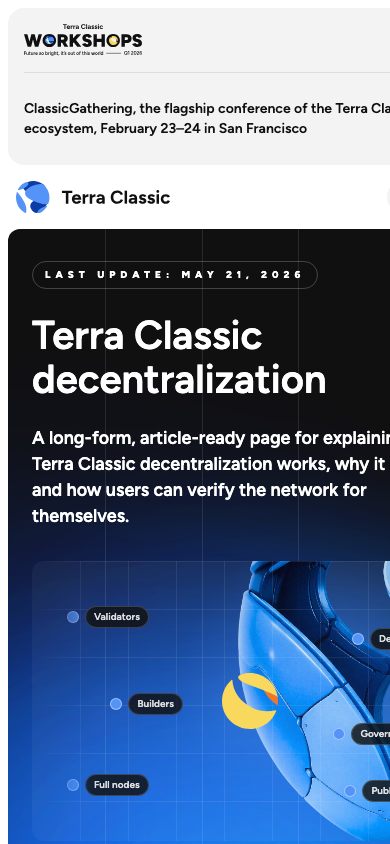
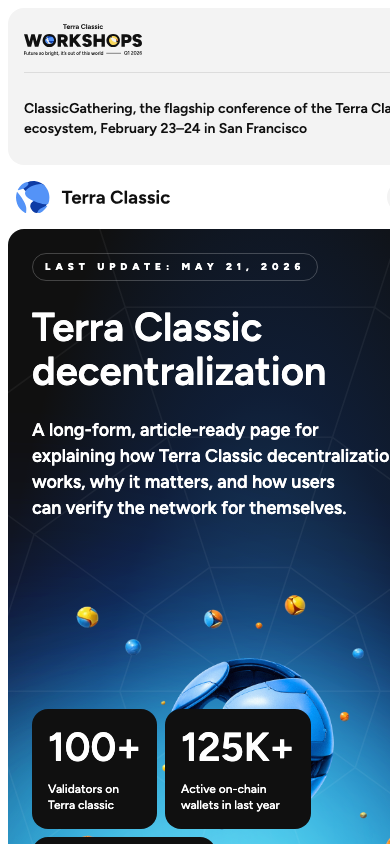
Decentralizuation subpage fixes

diff --git a/src/styles/global.css b/src/styles/global.css
@@ -541,7 +541,7 @@ h1 { margin: 0; font-size: var(--tc-type-h1-size); line-height: var(--tc-type-h1
 
 .protocols { display: grid; gap: 8px; margin-top: 8px; }
 .protocol-panel { width: 100%; height: 95vh; position: relative; overflow: hidden; border-radius: var(--radius-card); color: var(--color-white); padding: var(--tc-padding-immersive-panel); background-color: var(--color-black); display: grid; grid-template-rows: auto minmax(0, 1fr) auto; row-gap: 40px; }
-.protocol-panel--staking { --protocol-visual-width: 892px; --protocol-visual-height: 512px; --protocol-visual-ratio: 892 / 512; --protocol-visual-center-offset: -5.83%; background: var(--color-black); }
+.protocol-panel--staking { --protocol-visual-width: 892px; --protocol-visual-height: 512px; --protocol-visual-ratio: 892 / 512; --protocol-visual-center-offset: -5.83%; background: linear-gradient(to bottom, rgba(16,16,16,0) calc(100% - 3px), rgba(255,224,93,.34) 100%), radial-gradient(ellipse at 50% 100%, rgba(255,224,93,.72) 0%, rgba(247,190,58,.4) 30%, rgba(143,116,72,.18) 58%, rgba(16,16,16,0) 84%), var(--color-black); box-shadow: 0 1px 0 rgba(255,224,93,.28); }
 .protocol-panel--swap { --protocol-visual-width: 987px; --protocol-visual-height: 512px; --protocol-visual-ratio: 987 / 512; --protocol-visual-center-offset: -5.315%; background: var(--color-black); }
 .protocol-panel--forex { --protocol-visual-width: 908px; --protocol-visual-height: 512px; --protocol-visual-ratio: 908 / 512; --protocol-visual-center-offset: -4.735%; background: var(--color-black); }
 .protocol-glow { position: absolute; pointer-events: none; z-index: 0; mix-blend-mode: screen; transform: translateZ(0); }
@@ -561,7 +561,7 @@ h1 { margin: 0; font-size: var(--tc-type-h1-size); line-height: var(--tc-type-h1
 .protocol-glow--v2 span:nth-child(1) { left: -110px; right: -110px; top: 102px; bottom: -34px; background: radial-gradient(ellipse at 50% 63%, rgba(16,70,184,.82) 0%, rgba(12,54,158,.7) 28%, rgba(9,35,120,.52) 55%, rgba(8,24,82,.24) 76%, rgba(5,9,32,0) 92%); filter: blur(86px); opacity: .88; animation: bottom-glow-v2-field 26s ease-in-out infinite alternate; }
 .protocol-glow--staking.protocol-glow--v2 span:nth-child(2) { left: 360px; right: 280px; bottom: 30px; height: 650px; background: radial-gradient(ellipse at 50% 72%, rgba(255,224,93,1) 0%, rgba(249,216,94,.9) 18%, rgba(247,190,58,.58) 42%, rgba(118,94,56,.24) 68%, rgba(118,94,56,0) 88%); filter: blur(52px); opacity: .94; animation: bottom-glow-v2-core 17s var(--tc-ease-emphasized) infinite alternate; }
 .protocol-glow--staking.protocol-glow--v2 span:nth-child(3) { left: 492px; right: 370px; bottom: -42px; height: 480px; background: radial-gradient(ellipse at 50% 42%, rgba(255,247,174,.9) 0%, rgba(255,224,93,.62) 32%, rgba(255,224,93,0) 78%); filter: blur(60px); opacity: .76; animation: bottom-glow-v2-source 23s ease-in-out infinite alternate; }
-.protocol-glow--staking.protocol-glow--v2 span:nth-child(4) { display: block; left: 120px; right: 80px; bottom: 34px; height: 270px; border-radius: 45% 55% 54% 46% / 44% 54% 46% 56%; background: linear-gradient(98deg, rgba(255,224,93,0) 0%, rgba(255,224,93,.2) 24%, rgba(255,224,93,.46) 48%, rgba(76,134,255,.2) 70%, rgba(10,24,84,0) 100%); filter: blur(66px); opacity: .34; transform: rotate(-5deg); animation: bottom-glow-v2-floor-wash 29s ease-in-out infinite alternate; }
+.protocol-glow--staking.protocol-glow--v2 span:nth-child(4) { display: block; left: 120px; right: 80px; bottom: -36px; height: 350px; border-radius: 45% 55% 54% 46% / 44% 54% 46% 56%; background: linear-gradient(98deg, rgba(255,224,93,0) 0%, rgba(255,224,93,.2) 24%, rgba(255,224,93,.46) 48%, rgba(76,134,255,.2) 70%, rgba(10,24,84,0) 100%); filter: blur(66px); opacity: .38; transform: rotate(-5deg); animation: bottom-glow-v2-floor-wash 29s ease-in-out infinite alternate; }
 .protocol-glow--swap.protocol-glow--v2 span:nth-child(2),
 .protocol-glow--forex.protocol-glow--v2 span:nth-child(2) { left: 326px; right: 244px; bottom: 20px; height: 700px; background: radial-gradient(ellipse at 50% 72%, rgba(94,252,255,1) 0%, rgba(80,230,255,.82) 20%, rgba(42,156,255,.54) 45%, rgba(13,84,205,.22) 69%, rgba(13,84,205,0) 89%); filter: blur(52px); opacity: .9; animation: bottom-glow-v2-core 17s var(--tc-ease-emphasized) infinite alternate; }
 .protocol-glow--forex.protocol-glow--v2 span:nth-child(2) { left: 316px; right: 254px; background: radial-gradient(ellipse at 50% 72%, rgba(80,236,255,.96) 0%, rgba(72,226,255,.78) 21%, rgba(58,168,255,.5) 45%, rgba(8,95,210,.22) 69%, rgba(8,95,210,0) 89%); }
@@ -792,7 +792,7 @@ h1 { margin: 0; font-size: var(--tc-type-h1-size); line-height: var(--tc-type-h1
   linear-gradient(180deg, #050a20 0%, #07133c 48%, #0d4fb9 100%); }
 .strength-visual__orb { position: relative; z-index: 1; display: block; width: 292px; height: auto; max-width: none; }
 
-.stats-panel { --stats-copy-block-height: 168px; --stats-planets-top: calc(var(--tc-padding-immersive-panel) + var(--stats-copy-block-height) + 40px); --stats-small-planets-height: 636px; --stats-big-planet-width: 270px; --stats-big-planet-height: 268px; --stats-web-center-y-offset: 11px; width: 100%; height: 95vh; margin-top: 8px; position: relative; overflow: hidden; border-radius: var(--radius-card); background: var(--color-black); color: var(--color-white); padding: var(--tc-padding-immersive-panel); display: grid; grid-template-rows: auto minmax(0, 1fr) auto; row-gap: 40px; }
+.stats-panel { --stats-copy-block-height: 168px; --stats-planets-top: calc(var(--tc-padding-immersive-panel) + var(--stats-copy-block-height) + 40px); --stats-small-planets-height: 636px; --stats-big-planet-width: 270px; --stats-big-planet-height: 268px; --stats-web-center-y-offset: 11px; width: 100%; height: 95vh; margin-top: 8px; position: relative; overflow: hidden; border-radius: var(--radius-card); background: linear-gradient(to bottom, rgba(16,16,16,0) calc(100% - 3px), rgba(84,245,255,.3) 100%), radial-gradient(ellipse at 54% 100%, rgba(84,245,255,.68) 0%, rgba(42,156,255,.42) 30%, rgba(13,84,205,.2) 58%, rgba(16,16,16,0) 84%), var(--color-black); box-shadow: 0 1px 0 rgba(84,245,255,.24); color: var(--color-white); padding: var(--tc-padding-immersive-panel); display: grid; grid-template-rows: auto minmax(0, 1fr) auto; row-gap: 40px; }
 .stats-glow { position: absolute; inset: -120px -220px -220px; z-index: 1; pointer-events: none; mix-blend-mode: screen; filter: saturate(1.16); transform: translateZ(0); mask-image: linear-gradient(to bottom, transparent 0%, transparent 18%, rgba(0,0,0,.26) 28%, #000 42%); -webkit-mask-image: linear-gradient(to bottom, transparent 0%, transparent 18%, rgba(0,0,0,.26) 28%, #000 42%); }
 .stats-glow span { position: absolute; display: block; border-radius: 999px; will-change: transform, opacity, border-radius, filter; }
 .stats-glow span:nth-child(1) { left: -70px; right: -70px; top: 100px; bottom: 20px; background: radial-gradient(ellipse at 54% 58%, rgba(14,60,165,.72) 0%, rgba(14,50,146,.62) 25%, rgba(11,36,118,.5) 52%, rgba(8,24,82,.24) 73%, rgba(5,9,32,0) 91%); filter: blur(82px); opacity: .86; animation: stats-blue-field 23s ease-in-out infinite alternate; }
@@ -803,7 +803,7 @@ h1 { margin: 0; font-size: var(--tc-type-h1-size); line-height: var(--tc-type-h1
 .stats-glow--v2 span:nth-child(1) { left: -110px; right: -110px; top: 96px; bottom: -38px; background: radial-gradient(ellipse at 52% 62%, rgba(15,72,190,.8) 0%, rgba(12,58,166,.68) 28%, rgba(10,39,128,.5) 56%, rgba(8,24,82,.22) 76%, rgba(5,9,32,0) 92%); filter: blur(90px); opacity: .82; animation: bottom-glow-v2-field 28s ease-in-out -7.4s infinite alternate; }
 .stats-glow--v2 span:nth-child(2) { left: 380px; right: 180px; bottom: -16px; height: 740px; background: radial-gradient(ellipse at 52% 72%, rgba(92,252,255,.98) 0%, rgba(84,245,255,.76) 22%, rgba(42,156,255,.5) 46%, rgba(13,84,205,.22) 70%, rgba(13,84,205,0) 90%); filter: blur(56px); opacity: .86; animation: bottom-glow-v2-core 19s var(--tc-ease-emphasized) -10.2s infinite alternate; }
 .stats-glow--v2 span:nth-child(3) { left: 500px; right: 300px; bottom: -72px; height: 520px; background: radial-gradient(ellipse at 52% 42%, rgba(178,253,255,.82) 0%, rgba(84,245,255,.54) 34%, rgba(84,245,255,0) 78%); filter: blur(64px); opacity: .62; animation: bottom-glow-v2-source 25s ease-in-out -4.8s infinite alternate; }
-.stats-glow--v2 span:nth-child(4) { display: block; left: 92px; right: 52px; bottom: 74px; height: 330px; border-radius: 45% 55% 54% 46% / 44% 54% 46% 56%; background: linear-gradient(98deg, rgba(84,245,255,0) 0%, rgba(84,245,255,.16) 24%, rgba(84,245,255,.42) 48%, rgba(66,132,255,.2) 70%, rgba(10,24,84,0) 100%); filter: blur(70px); opacity: .3; transform: rotate(-5deg); animation: bottom-glow-v2-floor-wash 31s ease-in-out -13.2s infinite alternate; }
+.stats-glow--v2 span:nth-child(4) { display: block; left: 92px; right: 52px; bottom: -42px; height: 410px; border-radius: 45% 55% 54% 46% / 44% 54% 46% 56%; background: linear-gradient(98deg, rgba(84,245,255,0) 0%, rgba(84,245,255,.16) 24%, rgba(84,245,255,.42) 48%, rgba(66,132,255,.2) 70%, rgba(10,24,84,0) 100%); filter: blur(70px); opacity: .34; transform: rotate(-5deg); animation: bottom-glow-v2-floor-wash 31s ease-in-out -13.2s infinite alternate; }
 .stats-decagon-pattern { position: absolute; inset: 0; z-index: 2; display: block; width: 100%; height: 100%; max-width: none; object-fit: cover; pointer-events: none; }
 .stats-small-planets { position: absolute; left: 50%; top: var(--stats-planets-top); z-index: 3; display: block; width: auto; height: var(--stats-small-planets-height); aspect-ratio: 1161 / 636; max-width: none; object-fit: contain; pointer-events: none; transform: translateX(-50.302%); }
 .stats-big-planet { position: absolute; left: 50%; top: calc(50% + var(--stats-web-center-y-offset)); z-index: 3; display: block; width: var(--stats-big-planet-width); height: var(--stats-big-planet-height); max-width: none; object-fit: contain; pointer-events: none; transform: translate(-50%, -50%); }
@@ -952,15 +952,12 @@ h1 { margin: 0; font-size: var(--tc-type-h1-size); line-height: var(--tc-type-h1
 .ecosystem-share .pill-button { min-width: 220px; }
 
 .decentralization-page { width: 100%; border-bottom: 1px solid var(--color-grey-100); }
-.decentralization-hero { position: relative; min-height: 720px; overflow: hidden; border-radius: var(--radius-card); background: var(--color-black); color: var(--color-white); padding: var(--tc-padding-immersive-panel); display: grid; grid-template-rows: auto minmax(280px, 1fr) auto; gap: 48px; }
-.decentralization-hero__glow { z-index: 0; }
-.decentralization-hero__lines { z-index: 1; display: block; }
-.decentralization-hero__lines span:nth-child(1) { left: 20%; display: block; }
-.decentralization-hero__lines span:nth-child(2) { left: 40%; display: block; }
-.decentralization-hero__lines span:nth-child(3) { left: 60%; display: block; }
-.decentralization-hero__lines span:nth-child(4) { left: 80%; display: block; }
-.decentralization-hero__copy { position: relative; z-index: 2; max-width: 980px; display: flex; flex-direction: column; gap: 40px; }
-.decentralization-hero__copy h1, .decentralization-hero__copy p { margin: 0; }
+.decentralization-hero { margin-top: 0; }
+.stats-panel.decentralization-stats-hero { --stats-copy-block-height: 288px; }
+.decentralization-stats-hero { min-height: 720px; }
+.decentralization-stats-hero__copy { display: flex; flex-direction: column; align-items: flex-start; }
+.decentralization-stats-hero__copy h1 { width: 100%; max-width: 100%; margin: 48px 0 0; text-wrap: balance; }
+.decentralization-stats-hero__copy p { max-width: 900px; margin-top: 32px; }
 .article-meta { display: flex; flex-wrap: wrap; gap: 8px; color: rgba(255,255,255,.68); }
 .article-meta__badge { width: auto; min-width: 0; height: 32px; background: transparent; border-color: rgba(255,255,255,.22); color: var(--color-white); padding: 0 16px; text-transform: uppercase; }
 .decentralization-visual { position: relative; z-index: 2; min-height: 320px; border-radius: var(--radius-card); background: radial-gradient(circle at 70% 45%, rgba(84,147,247,.3), rgba(84,147,247,0) 46%), rgba(255,255,255,.04); overflow: hidden; }
@@ -976,7 +973,7 @@ h1 { margin: 0; font-size: var(--tc-type-h1-size); line-height: var(--tc-type-h1
 .decentralization-node--4 { right: 22%; top: 58%; }
 .decentralization-node--5 { left: 14%; bottom: 18%; }
 .decentralization-node--6 { right: 12%; bottom: 16%; }
-.article-actions { position: relative; z-index: 2; display: grid; grid-template-columns: auto 1fr auto; align-items: center; gap: 16px; padding-top: 0; }
+.decentralization-hero-actions { position: absolute; left: 0; top: 176px; display: flex; align-items: center; gap: 16px; }
 .article-action.pill-button { min-height: 56px; border: 0; background: var(--color-white); color: var(--color-black); cursor: pointer; justify-self: start; }
 .article-action--share.pill-button { justify-self: end; }
 .article-action.pill-button:hover,
@@ -992,7 +989,7 @@ h1 { margin: 0; font-size: var(--tc-type-h1-size); line-height: var(--tc-type-h1
 .article-action:hover .play-button-icon__hover,
 .article-action:focus-visible .play-button-icon__hover,
 .article-action--active .play-button-icon__hover { opacity: 1; }
-.article-read-time { justify-self: start; color: rgba(255,255,255,.64); }
+.article-read-time { color: rgba(255,255,255,.64); }
 .article-body { max-width: 1040px; margin: 0 auto; padding: 80px 0 96px; }
 .article-lede { padding: 0 0 56px 160px; border-bottom: 1px solid var(--color-grey-100); }
 .article-lede p { margin: 0; }
@@ -1169,7 +1166,8 @@ h1 { margin: 0; font-size: var(--tc-type-h1-size); line-height: var(--tc-type-h1
   .stats-metric--2 { left: 233px; width: 270px; }
   .stats-metric--3 { left: 511px; width: 311px; }
   .stats-metric dt img { left: 212px; right: auto; }
-  .stats-button { position: relative; left: auto; top: auto; margin-top: 24px; }
+  .stats-button,
+  .decentralization-hero-actions { position: relative; left: auto; top: auto; margin-top: 24px; flex-wrap: wrap; }
   .founders { height: auto; }
   .founders-intro,
   .founders-intro h2,
@@ -1653,7 +1651,8 @@ h1 { margin: 0; font-size: var(--tc-type-h1-size); line-height: var(--tc-type-h1
   .stats-metric dt { width: 100%; height: 44px; display: flex; align-items: center; gap: 16px; }
   .stats-metric dt span { font-size: var(--tc-type-h1-size); line-height: var(--tc-type-h1-line-height); }
   .stats-metric dd { position: static; margin: 0; font-size: var(--tc-type-link-normal-size); line-height: var(--tc-type-link-normal-line-height); }
-  .stats-button { position: relative; left: auto; top: auto; width: 100%; margin-top: 0; }
+  .stats-button,
+  .decentralization-hero-actions { position: relative; left: auto; top: auto; width: 100%; margin-top: 0; }
   .stats-button__text--desktop { display: none; }
   .stats-button__text--mobile { display: inline; }
   .stats-metric dt img { position: static; width: 32px; height: 32px; }
@@ -1771,7 +1770,7 @@ h1 { margin: 0; font-size: var(--tc-type-h1-size); line-height: var(--tc-type-h1
 }
 
 @media (max-width: 1499px) {
-  .decentralization-hero { min-height: 640px; gap: 40px; }
+  .decentralization-stats-hero { min-height: 640px; }
   .article-body { max-width: 920px; }
   .article-section { grid-template-columns: 72px minmax(0, 1fr); gap: 40px; }
   .article-tabs { gap: 32px; }
@@ -1780,9 +1779,7 @@ h1 { margin: 0; font-size: var(--tc-type-h1-size); line-height: var(--tc-type-h1
 }
 
 @media (min-width: 768px) and (max-width: 1299px) {
-  .decentralization-hero { min-height: 620px; }
-  .article-actions { grid-template-columns: 1fr auto; }
-  .article-read-time { grid-column: 1 / -1; grid-row: 2; }
+  .decentralization-stats-hero { min-height: 620px; }
   .article-body { max-width: 100%; padding: 72px 48px 88px; }
   .article-lede { padding-left: 112px; }
   .article-reference-list { grid-template-columns: 1fr; }
@@ -1792,12 +1789,9 @@ h1 { margin: 0; font-size: var(--tc-type-h1-size); line-height: var(--tc-type-h1
 }
 
 @media (max-width: 767px) {
-  .decentralization-hero { min-height: 0; padding: 32px 24px; gap: 32px; border-radius: 12px; }
-  .decentralization-hero__lines span:nth-child(1) { left: 20%; display: block; }
-  .decentralization-hero__lines span:nth-child(2) { left: 40%; display: block; }
-  .decentralization-hero__lines span:nth-child(3) { left: 60%; display: block; }
-  .decentralization-hero__lines span:nth-child(4) { left: 80%; display: block; }
-  .decentralization-hero__copy { gap: 24px; }
+  .stats-panel.decentralization-stats-hero { --stats-visual-gap: 72px; }
+  .decentralization-stats-hero { min-height: 0; }
+  .decentralization-stats-hero__copy h1 { margin-top: 24px; }
   .article-meta { gap: 6px; }
   .article-meta__badge { min-height: 28px; height: 28px; padding: 0 12px; }
   .decentralization-visual { min-height: 260px; border-radius: 12px; }
@@ -1813,7 +1807,7 @@ h1 { margin: 0; font-size: var(--tc-type-h1-size); line-height: var(--tc-type-h1
   .decentralization-node--4 { right: 10%; top: 58%; }
   .decentralization-node--5 { left: 8%; bottom: 16%; }
   .decentralization-node--6 { right: 8%; bottom: 14%; }
-  .article-actions { grid-template-columns: 1fr; gap: 8px; padding-top: 0; }
+  .decentralization-hero-actions { position: relative; left: auto; top: auto; width: 100%; display: grid; grid-template-columns: 1fr; gap: 8px; margin-top: 0; }
   .article-action.pill-button { width: 100%; min-height: 48px; padding: 0 20px; }
   .article-read-time { justify-self: center; }
   .article-body { max-width: 100%; padding: 48px 24px 64px; }

diff --git a/src/App.tsx b/src/App.tsx
@@ -1139,34 +1139,46 @@ function DecentralizationArticle() {
 
   return (
     <article className="decentralization-page" id="top" aria-labelledby="decentralization-page-title">
-      <header className="decentralization-hero">
-        <div className={`hero-glow hero-glow--${HERO_GLOW_VARIANT} decentralization-hero__glow`} aria-hidden="true">
-          {Array.from({ length: 7 }).map((_, index) => <span key={index} />)}
-        </div>
-        <div className="hero-lines decentralization-hero__lines" aria-hidden="true">
+      <header className="stats-panel decentralization-hero decentralization-stats-hero">
+        <div className={`stats-glow stats-glow--${BOTTOM_GLOW_VARIANT}`} aria-hidden="true">
           <span />
           <span />
           <span />
           <span />
         </div>
-        <div className="decentralization-hero__copy">
+        <img className="stats-decagon-pattern" src={asset("decagon.svg")} alt="" aria-hidden="true" loading="eager" width="1288" height="1208" />
+        <img className="stats-small-planets" src={asset("stats-small-planets.png")} alt="" aria-hidden="true" loading="eager" width="1161" height="636" />
+        <img className="stats-big-planet" src={asset("stats-big-planet.png")} alt="" aria-hidden="true" loading="eager" width="270" height="268" />
+        <div className="stats-copy decentralization-stats-hero__copy">
           <div className="article-meta">
             <span className="native-phase__badge article-meta__badge">LAST UPDATE: MAY 21, 2026</span>
           </div>
           <h1 className="tc-type-h1" id="decentralization-page-title">Terra Classic decentralization</h1>
           <p className="tc-type-h4">A long-form, article-ready page for explaining how Terra Classic decentralization works, why it matters, and how users can verify the network for themselves.</p>
         </div>
-        <DecentralizationHeroVisual />
-        <div className="article-actions" aria-label="Article actions">
-          <ArticleListenControl label="Listen to draft" text={readText} />
-          <span className="article-read-time tc-type-link-big">15 min read</span>
-          <a className="article-action article-action--share pill-button tc-type-link-big" href="https://x.com/intent/tweet?text=Read%20about%20Terra%20Classic%20decentralization&url=https%3A%2F%2Fterra-classic.money%2Fdecentralization.html" target="_blank" rel="noopener noreferrer">
-            <span>Share on X</span>
-            <span className="button-arrow-icon" aria-hidden="true">
-              <img className="button-arrow-icon__default" src={asset("button-arrow-black.svg")} alt="" />
-              <img className="button-arrow-icon__hover" src={asset("button-arrow-white.svg")} alt="" />
-            </span>
-          </a>
+        <div className="stats-bottom decentralization-stats-hero__bottom">
+          <dl className="stats-row">
+            {stats.map(([number, label], index) => (
+              <div className={`stats-metric stats-metric--${index + 1}`} key={number}>
+                <dt>
+                  <span className="tc-type-h1">{number}</span>
+                  {index === 2 && <img src={asset("lunc-logo.svg")} alt="" aria-hidden="true" width="50" height="50" />}
+                </dt>
+                <dd className="tc-type-link-normal">{label}</dd>
+              </div>
+            ))}
+          </dl>
+          <div className="decentralization-hero-actions" aria-label="Article actions">
+            <ArticleListenControl label="Listen to draft" text={readText} />
+            <span className="article-read-time tc-type-link-big">15 min read</span>
+            <a className="article-action article-action--share pill-button tc-type-link-big" href="https://x.com/intent/tweet?text=Read%20about%20Terra%20Classic%20decentralization&url=https%3A%2F%2Fterra-classic.money%2Fdecentralization.html" target="_blank" rel="noopener noreferrer">
+              <span>Share on X</span>
+              <span className="button-arrow-icon" aria-hidden="true">
+                <img className="button-arrow-icon__default" src={asset("button-arrow-black.svg")} alt="" />
+                <img className="button-arrow-icon__hover" src={asset("button-arrow-white.svg")} alt="" />
+              </span>
+            </a>
+          </div>
         </div>
       </header>
 

diff --git a/docs/067 - Decentralization subpage implementation - 2026-05-21.md b/docs/067 - Decentralization subpage implementation - 2026-05-21.md
@@ -71,3 +71,15 @@ The supplied lo-fi wireframe is treated as an information-architecture reference
 - Re-ran in-app browser QA on `http://127.0.0.1:5174/decentralization.html`; checks confirmed no console warnings/errors, the badge has `10px` text with `5px` letter spacing, action buttons render white by default, the hero has four divider lines and seven glow spans, and the homepage FAQ renders 39 items.
 - Interaction QA confirmed the article tabs switch to `Community view` and the homepage FAQ question `Who controls Terra Classic?` expands.
 - Refreshed desktop, tablet, and mobile audit screenshots.
+- Replaced the Decentralization article hero with the homepage `Efficiency driven by decentralization` stats-panel structure and assets.
+- Preserved the Decentralization page headline, intro, and last-update badge inside the stats-panel copy area.
+- Replaced the homepage stats-panel CTA button with the Decentralization article actions: `Listen to draft`, `15 min read`, and `Share on X`.
+- Rendered QA confirmed the hero now uses stats-panel assets (`decagon`, `stats-small-planets`, `stats-big-planet`), has three metric cards, and no longer includes the custom Decentralization visual inside the hero.
+- Fixed the bottom-edge glow/white-fringe defect on the shared stats-panel used by the homepage and Decentralization page by adding a real bottom-edge floor layer to the panel background instead of a visual overlay.
+- Fixed the same bottom-edge defect on the Staking Protocol product panel with a staking-specific floor layer and edge tint.
+- Left the Swap and Forex Protocol product panels unchanged because their bottom glow treatment was already rendering correctly.
+- Re-ran `npm run check`; type-check and production build passed.
+- Confirmed `designsystem.html`, `src/designsystem.tsx`, and `src/styles/designsystem.css` have no diff.
+- Scoped the stats-planet image placement on the Decentralization hero so the decorative planets do not collide with the longer article headline/intro at intermediate breakpoints.
+- Tuned the Decentralization-only planet offset after visual QA so the asset sits closer to the copy without crossing into the text area.
+- Checked the corrected hero at `1455 x 1081`, `1096 x 1081`, and `759 x 1081`; the headline and paragraph remain clear of the planet layer.